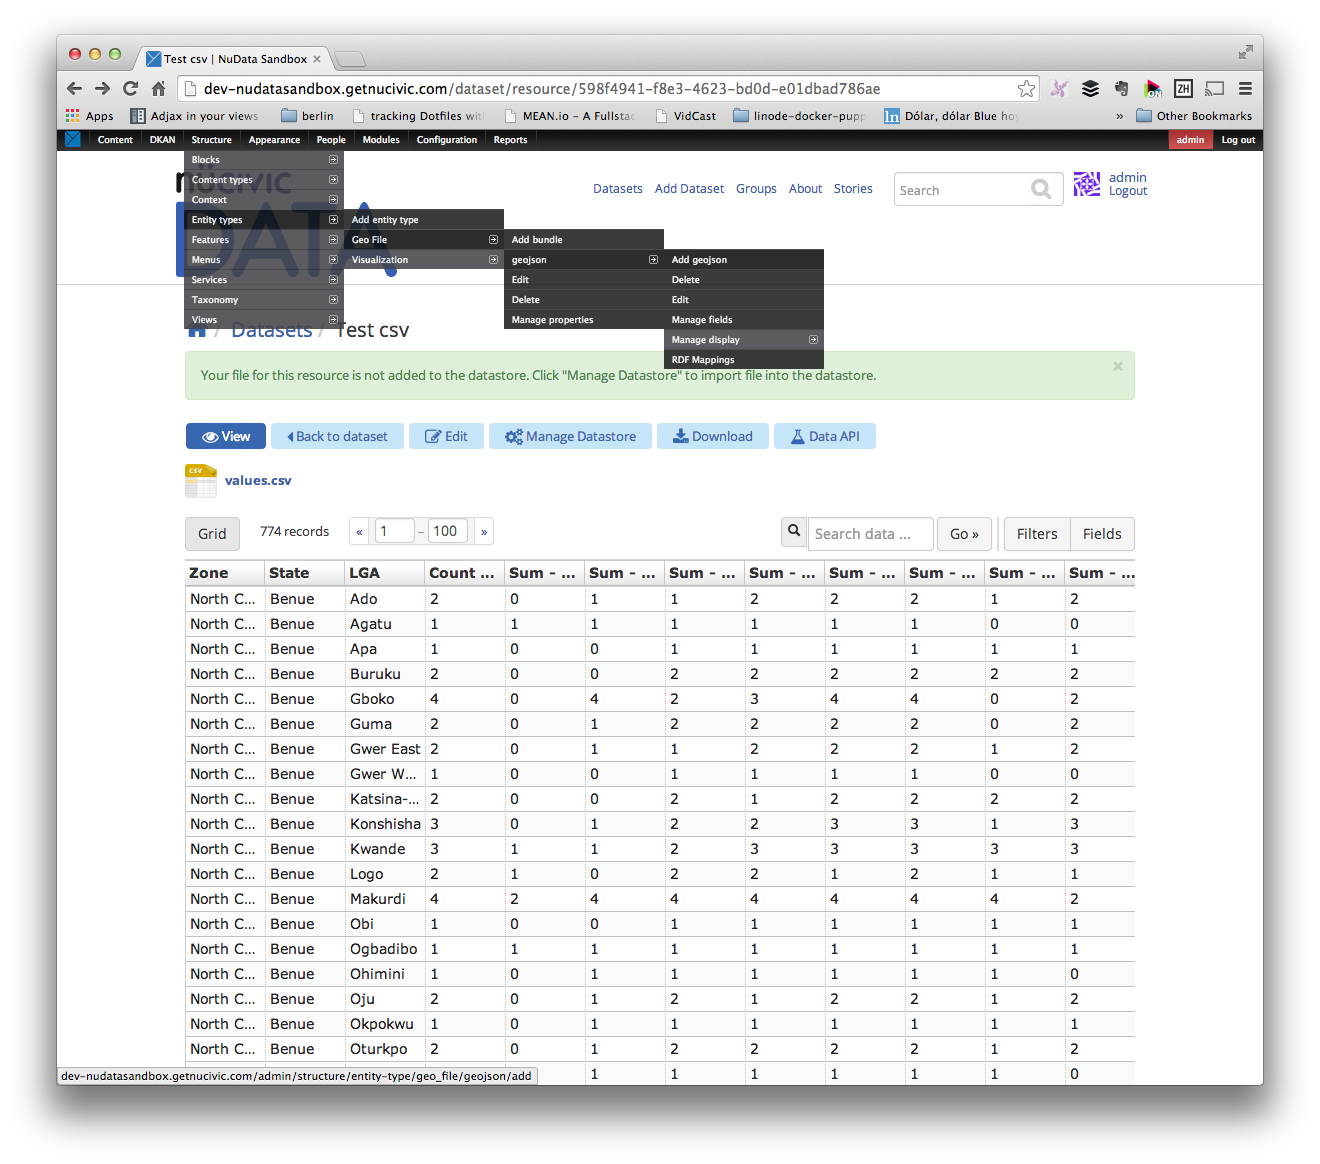
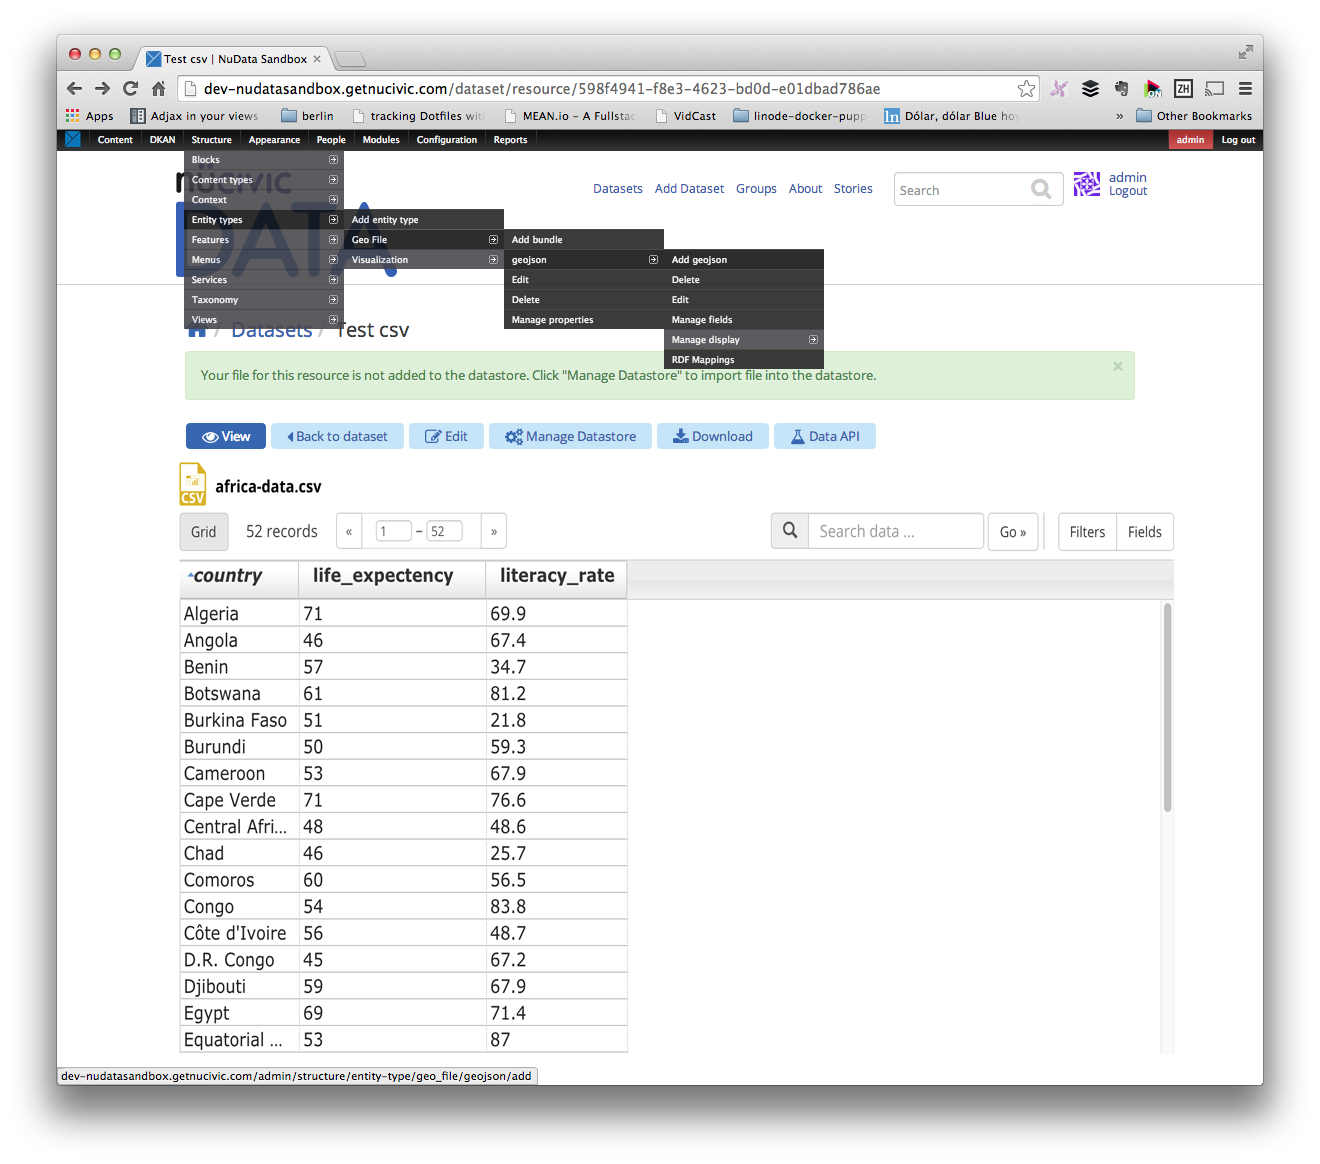
Issue NuCivic/dkan#941 geojson fix

diff --git a/docs/create-a-choropleth-visualization.md b/docs/create-a-choropleth-visualization.md
@@ -7,13 +7,21 @@ $ drush en -y visualization_entity_choropleth_bundle
 $ drush cc all
 ```
 
+## Examples Files
+
+Two example files are provided in the **examples** folder:
+```bash
+africa.geojson
+africa-data.csv
+```
+
 ## Create Visualization
 
 + Look for **Content -> Add Content -> Resource** in the admin menu and click on it.
 
 ![](images/geojson-step-00.png)
 
-+ Upload a **csv** file for the resource.
++ Upload a **africa-data.csv** file from the examples folder for the resource.
 
 ![](images/choropleth-step-00.png)
 
